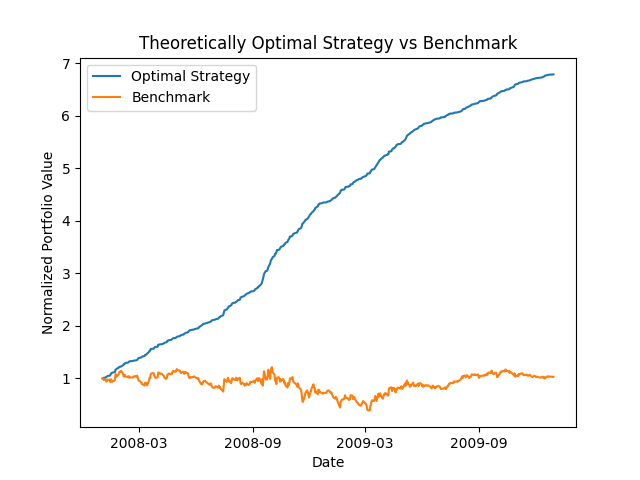
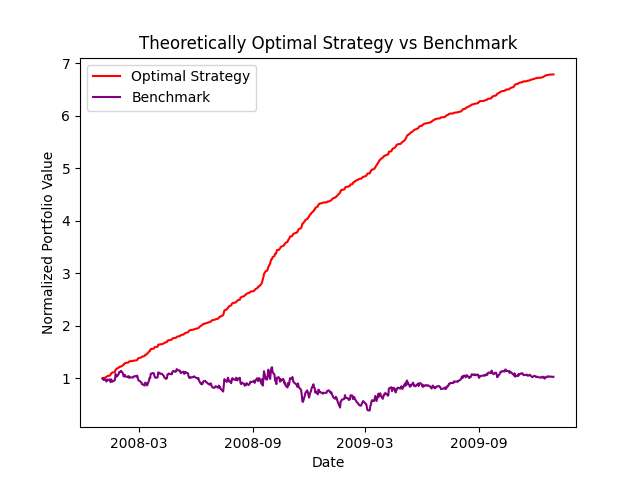
final cahnges

diff --git a/ml_trading/projs/6_proj/testproject.py b/ml_trading/projs/6_proj/testproject.py
@@ -202,17 +202,40 @@ if __name__ == "__main__":
     orders["Shares"] = abs(trades)
 
     port_val = marksim.compute_portvals(orders)
+    # Calculate daily returns
+    daily_returns = port_val.pct_change().dropna()
+    # Calculate cumulative return
+    cumulative_return = (port_val['Portfolio Value'][-1] / port_val['Portfolio Value'][0]) - 1
+    cumulative_return = cumulative_return * 100
+    # Calculate mean and standard deviation of daily returns
+    mean_daily_return = daily_returns.mean().values[0] * 100
+    stdev_daily_return = daily_returns.std().values[0] * 100
+    print(f"Cumulative Return: {cumulative_return:.8f}")
+    print(f"Mean Daily Return: {mean_daily_return:.8f}")
+    print(f"Standard Deviation of Daily Returns: {stdev_daily_return:.8f}")
+
     # get it in percentage terms
     port_val = port_val / port_val.iloc[0]
     jpm = 1000 * util.get_data(["JPM"], pd.date_range(sd, ed), addSPY=False, colname="Adj Close").dropna()
+    # Calculate cumulative return, mean daily return, and standard deviation of daily returns for benchmark
+    jpm_daily_returns = jpm.pct_change().dropna()
+    jpm_cumulative_return = (jpm.iloc[-1, 0] / jpm.iloc[0, 0]) - 1
+    jpm_cumulative_return = jpm_cumulative_return * 100
+    jpm_mean_daily_return = jpm_daily_returns.mean().values[0] * 100
+    jpm_stdev_daily_return = jpm_daily_returns.std().values[0] * 100
+
+    # Print the results for benchmark
+    print(f"Benchmark Cumulative Return: {jpm_cumulative_return:.6f}")
+    print(f"Benchmark Mean Daily Return: {jpm_mean_daily_return:.6f}")
+    print(f"Benchmark Standard Deviation of Daily Returns: {jpm_stdev_daily_return:.6f}")
     jpm['bench'] = jpm / jpm.iloc[0, 0]
     jpm['jpm_perc'] = port_val
 
 
     # plot
     fig = plt.figure()
-    plt.plot(jpm['jpm_perc'], label='Optimal Strategy')
-    plt.plot(jpm['bench'], label='Benchmark')
+    plt.plot(jpm['jpm_perc'], label='Optimal Strategy', color='red')
+    plt.plot(jpm['bench'], label='Benchmark', color='purple')
     plt.title('Theoretically Optimal Strategy vs Benchmark')
     plt.xlabel('Date')
     plt.ylabel('Normalized Portfolio Value')

diff --git a/ml_trading/projs/6_proj/indicators.py b/ml_trading/projs/6_proj/indicators.py
@@ -5,6 +5,13 @@ import pdb
 This module contains the functions to calculate the technical indicators.
 """
 
+def author():
+    """
+    :return: The GT username of the student
+    """
+    return 'kmccarville3'
+
+
 def calculate_bollinger_bands(prices, window=21):
     """
     Calculate Bollinger Bands.
